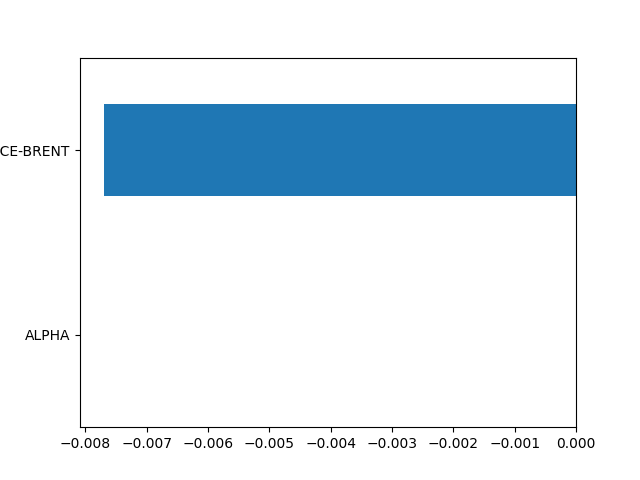
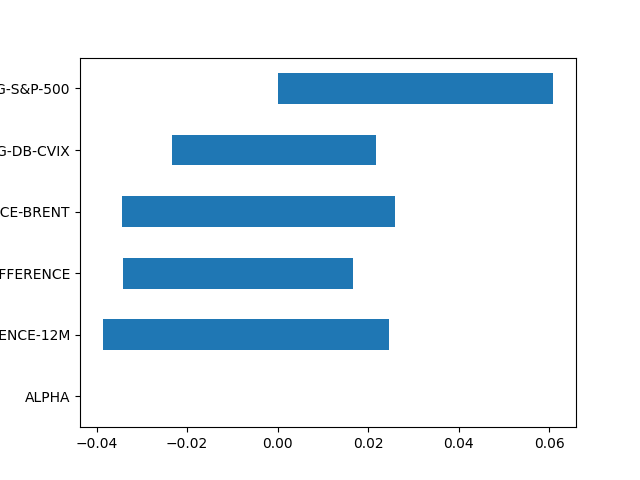
changes

diff --git a/CustomTypes/Model.py b/CustomTypes/Model.py
@@ -95,9 +95,9 @@ class Model(object):
 
         # AD hoc fasit
         # dep_series = Dataseries.get_dataseries("NB-KKI")
-        #dep_df = dep_series.get_df(self.frequency, from_date, to_date)
-        #dep_df = Prefixes.process_df("DELTA", dep_df, "NOIWTOT Index")
-        #df["FASIT"] = dep_df
+        # dep_df = dep_series.get_df(self.frequency, from_date, to_date)
+        # dep_df = Prefixes.process_df("DELTA", dep_df, "NOIWTOT Index")
+        # df["FASIT"] = dep_df
 
         print("PROCESSED MODEL!: ")
         print(df)
@@ -166,6 +166,25 @@ class Model(object):
             print("END NAN")
 
         lm = regression(df, list(self.weights.keys()), self.dependent_variable)
+
+        # print("STD", X_train.std(axis=0))
+        # print("coef.", lm.coef_)
+
+        print(lm.coef_)
+        print(lm.intercept_)
+
+        X = df[list(self.weights.keys())]
+        Y = df[self.dependent_variable]
+
+        normalized_coefficients = lm.coef_ * X.std(axis=0)
+
+        print("norm. coef ", normalized_coefficients)
+        normalized_coefficients.plot(kind="barh")
+        plt.savefig(f'normalized-coefficients-{self.name}.png')
+
+        prediction_r_2 = lm.score(X, Y)
+        print("R squared: ", prediction_r_2)
+
         old_coeffs = list(self.weights.values()).copy()
         for index, key in enumerate(self.weights.keys()):
             self.weights[key] = lm.coef_[index]
@@ -179,9 +198,27 @@ class Model(object):
         error = mean_absolute_percentage_error(old_coeffs, new_coeffs)
         print("model deviance is (MAPE)", error)
         r2 = r2_score(old_coeffs, new_coeffs)
+
         print("R2", r2)
 
-        print(self)
+        # Save results to file
+        results = {}
+        results["Prediction r2"] = prediction_r_2
+        results["model similarity (R2)"] = r2
+        results["model deviance (MAPE)"] = error
+
+        results = pd.DataFrame(data=results, index=[0])
+        # df = (df.T)
+        print(df)
+
+        df = pd.concat([results, normalized_coefficients])
+
+        df.to_excel(f'results-{self.name}.xlsx')
+        # with pd.ExcelWriter("results.xlsx", sheet_name=self.name, engine="openpyxl", mode="a", on_sheet_exists="replace") as writer:
+        # df.to_excel(writer, sheet_name=self.name, index=False)
+        # pd.write_excel(writer, df)
+
+        # print(self)
 
 
 def regression(df: pd.DataFrame, X_names: list[str], Y_name: str) -> LinearRegression:
@@ -199,21 +236,6 @@ def regression(df: pd.DataFrame, X_names: list[str], Y_name: str) -> LinearRegre
     lm.fit(X_train, Y_train)
 
     lm.normalize
-
-    #print("STD", X_train.std(axis=0))
-    #print("coef.", lm.coef_)
-
-    print(X_names)
-    print(lm.coef_)
-    print(lm.intercept_)
-
-    normalized_coefficients = lm.coef_ * X_train.std(axis=0)
-
-    print("norm. coef ", normalized_coefficients)
-    normalized_coefficients.plot(kind="barh")
-    plt.savefig('normalized-coefficients.png')
-
-    print("R squared: ", lm.score(X_train, Y_train))
 
     return lm
 

diff --git a/main.py b/main.py
@@ -64,14 +64,13 @@ def load_json() -> "tuple[ list[Dataseries], list[CustomDataseries], list[Model]
     # Run models
     if True:
         for model in all_models:
-            if model.name == "Ellen linear model":
-                print("Running model:", model.name)
-                model.reestimate(model.model_start_date, model.model_end_date)
-                # model.reestimate(model.model_end_date, date(2021, 12, 31))
-                # model.reestimate(model.model_start_date, date(2021, 12, 31))
-                # model.run_model(model.model_start_date, model.model_end_date)
-                # model.run_model(model.model_end_date, date(2021, 12, 31))
-                # model.run_model(model.model_start_date, date(2021, 12, 31))
+            print("Running model:", model.name)
+            model.reestimate(model.model_start_date, model.model_end_date)
+            # model.reestimate(model.model_end_date, date(2021, 12, 31))
+            # model.reestimate(model.model_start_date, date(2021, 12, 31))
+            # model.run_model(model.model_start_date, model.model_end_date)
+            # model.run_model(model.model_end_date, date(2021, 12, 31))
+            # model.run_model(model.model_start_date, date(2021, 12, 31))
 
 
 load_json()

diff --git a/CustomTypes/Dataseries.py b/CustomTypes/Dataseries.py
@@ -88,12 +88,12 @@ class Dataseries(object):
 
     def get_df(self, frequency: DataFrequency, from_date: datetime, to_date: datetime) -> DataFrame:
         df = self.df
-        df = df.resample(frequency.value).ffill()
+        df = df.resample(frequency.value).mean()
 
         df = df.loc[from_date:to_date]
         if df.loc[from_date:from_date].empty:
             warnings.warn(
-                f"Series {self.name} does not have data from {to_date}. First data is {df.iloc[0]}")
+                f"Series {self.name} does not have data from {from_date}. First data is {df.iloc[0]}")
         if df.loc[to_date:to_date].empty:
             warnings.warn(
                 f"Series {self.name} does not have data to {to_date}. Last data is {df.iloc[-1]}")
